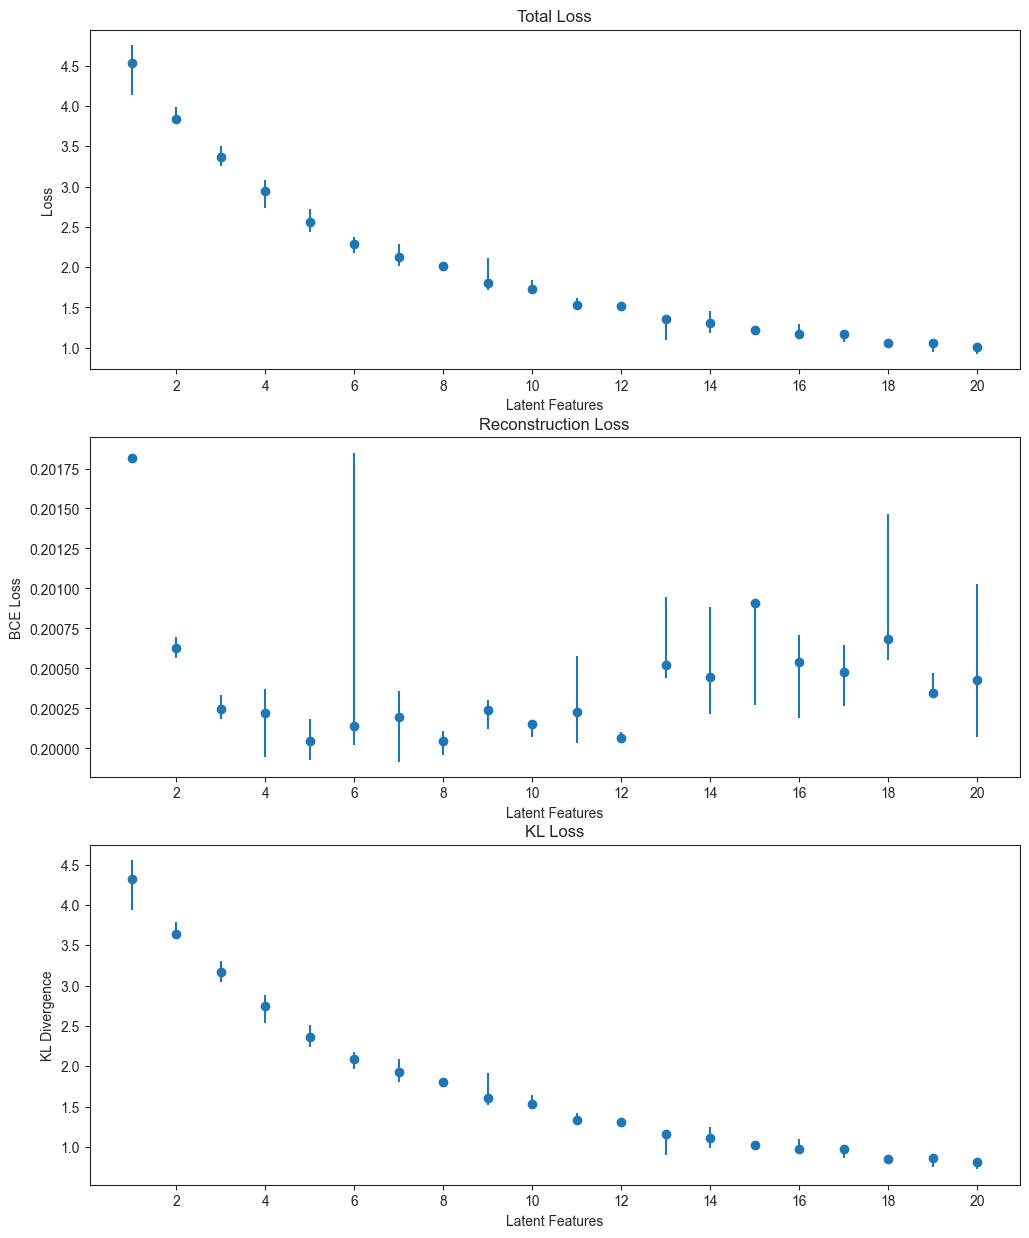
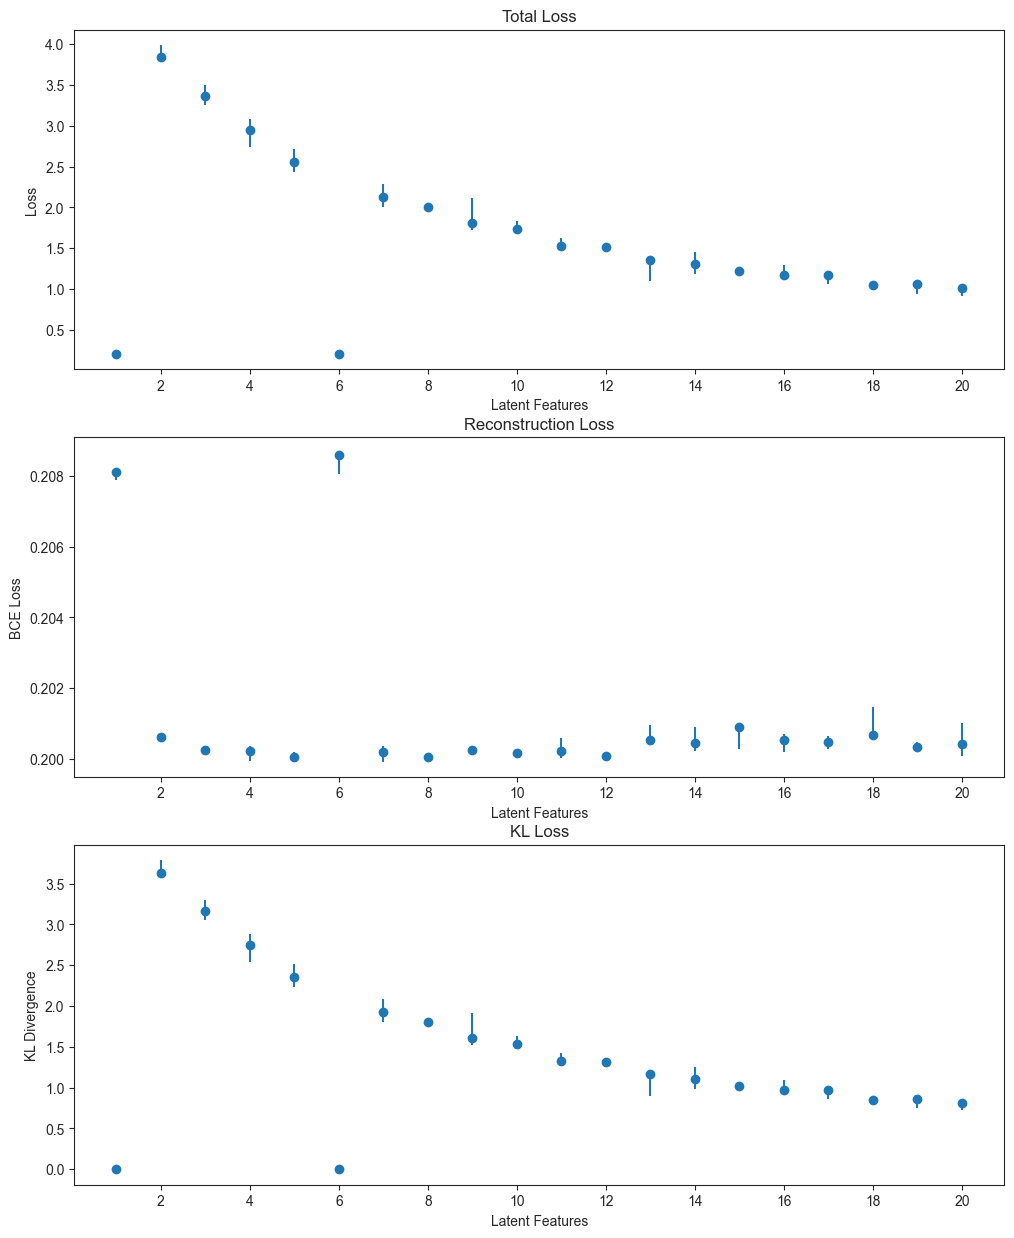
Code

diff --git a/vae_eagle.py b/vae_eagle.py
@@ -20,7 +20,7 @@ run = 1
 
 # select which gpu to use
 os.environ["CUDA_DEVICE_ORDER"]="PCI_BUS_ID"
-os.environ["CUDA_VISIBLE_DEVICES"]="4"
+os.environ["CUDA_VISIBLE_DEVICES"]="1"
 
 # number of epochs for run
 epochs = 750
@@ -491,14 +491,14 @@ for run in [1, 2, 3]:
                 reconstruction_loss = ops.mean(
                     ops.sum(keras.losses.binary_crossentropy(data, reconstruction), axis=(1, 2),
                     )
-                ) / (256 * 256)
+                )
                 # reconstruction_loss = ops.mean(keras.losses.binary_crossentropy(data, reconstruction))
 
                 # calculate the kl divergence (sum over each latent feature and average (mean) across the batch)
-                # kl_loss = -0.5 * (1 + z_log_var - ops.square(z_mean) - ops.exp(z_log_var))
-                # kl_loss = ops.mean(ops.sum(kl_loss, axis=1))
                 kl_loss = -0.5 * (1 + z_log_var - ops.square(z_mean) - ops.exp(z_log_var))
-                kl_loss = ops.mean(kl_loss, axis=1)
+                kl_loss = ops.mean(ops.sum(kl_loss, axis=1))
+                # kl_loss = -0.5 * (1 + z_log_var - ops.square(z_mean) - ops.exp(z_log_var))
+                # kl_loss = ops.mean(kl_loss, axis=1)
 
                 # total loss is the sum of reconstruction loss and kl divergence
                 total_loss = reconstruction_loss + kl_loss
